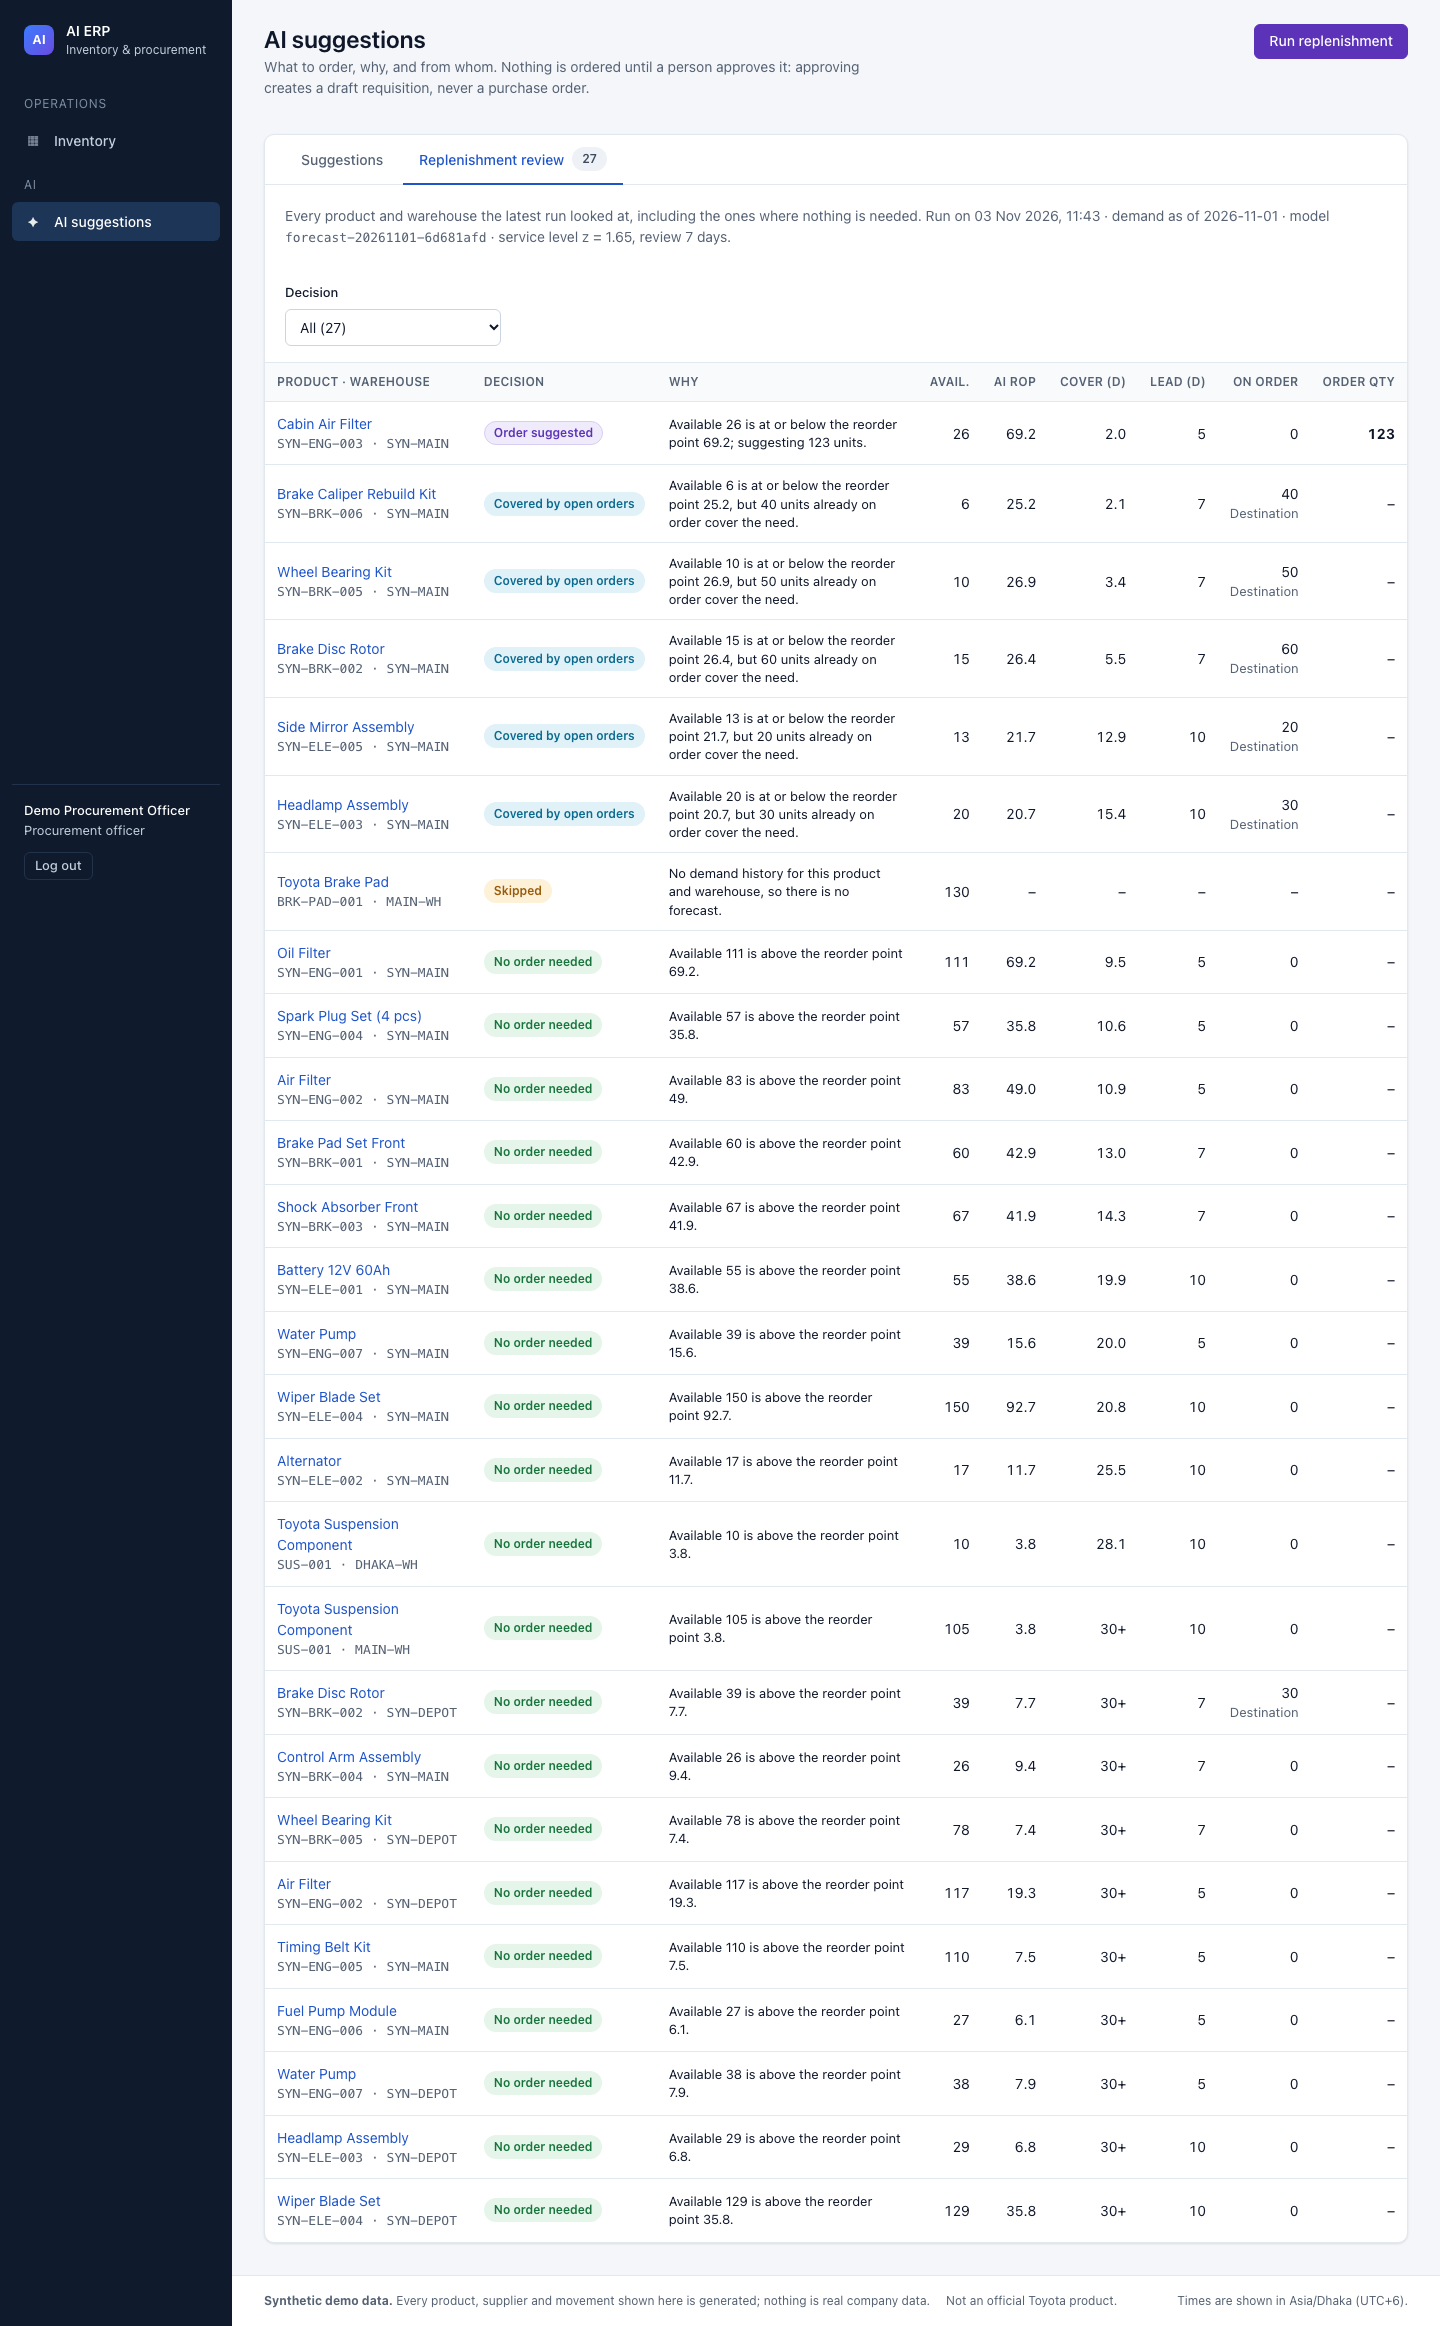
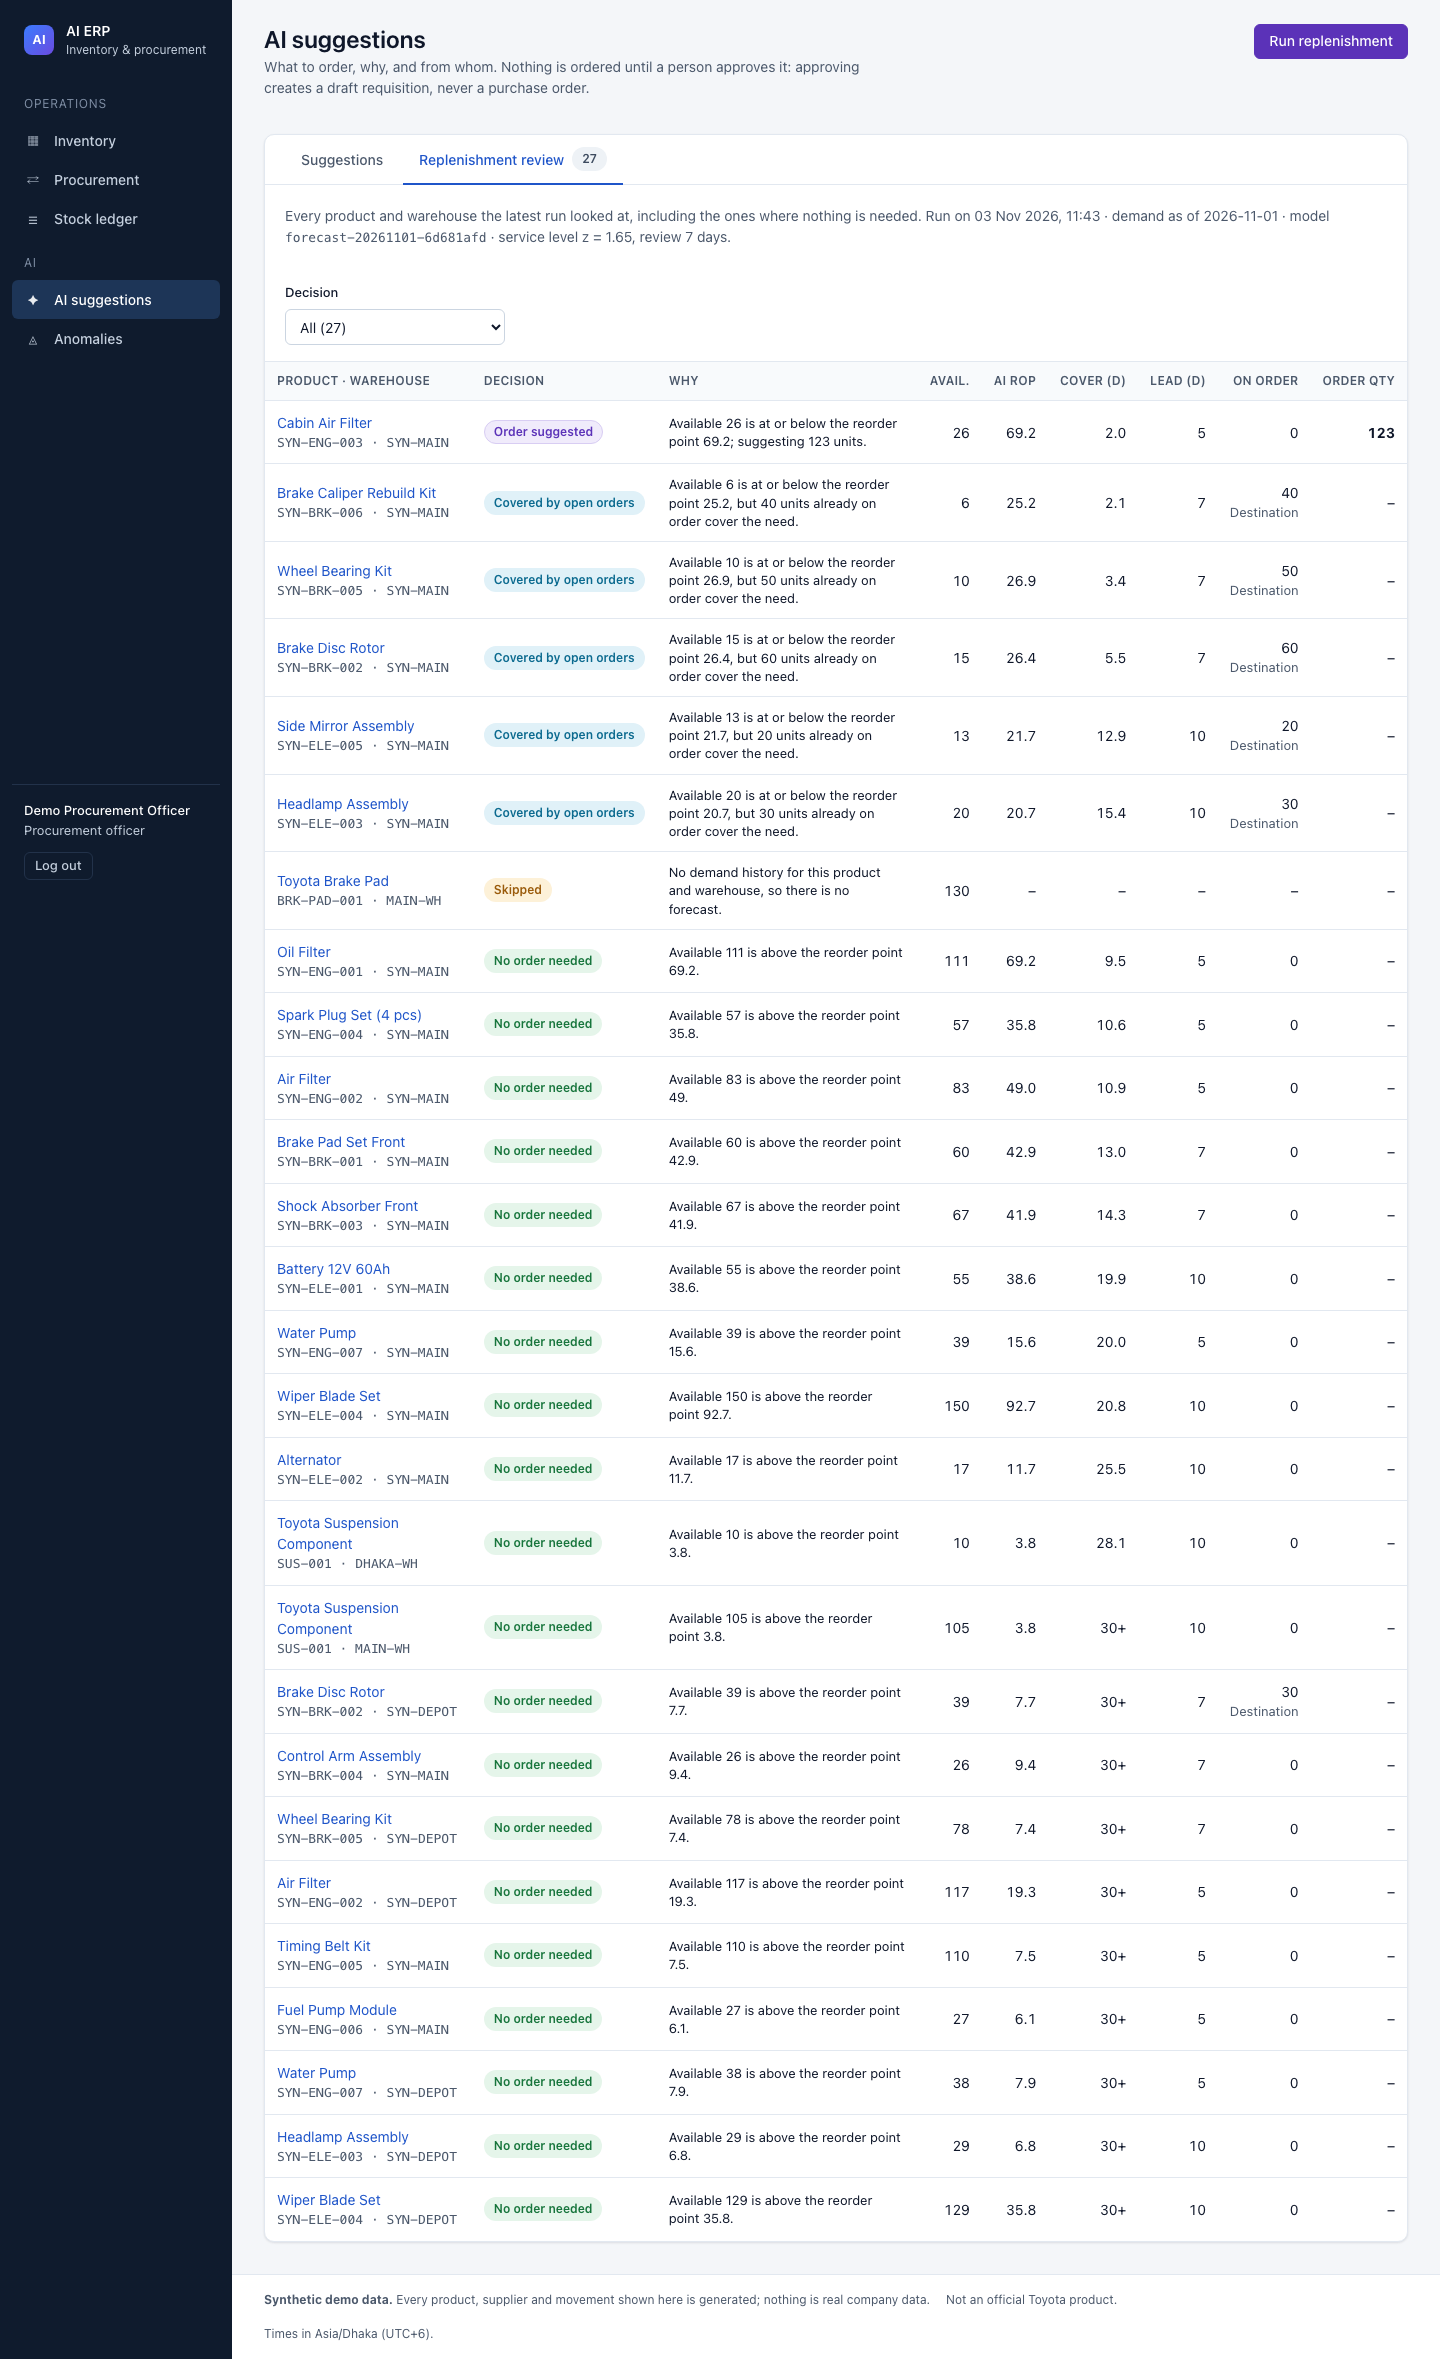
P6: real-stack smoke and accessibility checks, final screenshots, docs (UI-001..UI-009)
Playwright smoke test per role, automated axe check of every page, phone-width overflow check;
docs/screenshots/*.png regenerated by npm run screenshots.

diff --git a/client/e2e/smoke.spec.ts b/client/e2e/smoke.spec.ts
@@ -1,0 +1,87 @@
+import { expect, test } from '@playwright/test'
+import { ACCOUNTS, loginAs, settle, type DemoRole } from './helpers'
+
+// Read-only smoke test of the real stack: logins, role-based menus and actions, the assistant, logout.
+// (It asks the assistant one question, which writes one audit row; nothing else is written.)
+const nav = (page: import('@playwright/test').Page) => page.getByRole('navigation', { name: 'Main' })
+
+const MENU: Record<DemoRole, { has: string[]; hasNot: string[] }> = {
+  ADMIN: { has: ['Inventory', 'Procurement', 'Stock ledger', 'AI suggestions', 'Anomalies', 'AI models', 'AI audit log'], hasNot: [] },
+  PROCUREMENT_OFFICER: { has: ['Inventory', 'Procurement', 'AI suggestions', 'Anomalies'], hasNot: ['AI models', 'AI audit log'] },
+  WAREHOUSE_MANAGER: { has: ['Inventory', 'Procurement', 'Stock ledger', 'Anomalies'], hasNot: ['AI models', 'AI audit log'] },
+  VIEWER: { has: ['Inventory', 'Procurement', 'Stock ledger', 'AI suggestions', 'Anomalies'], hasNot: ['AI models', 'AI audit log'] },
+}
+
+for (const role of Object.keys(ACCOUNTS) as DemoRole[]) {
+  test(`${role}: logs in, sees the right menu and the dashboard`, async ({ page }) => {
+    await loginAs(page, role)
+    await settle(page)
+
+    for (const item of MENU[role].has) await expect(nav(page).getByRole('link', { name: item })).toBeVisible()
+    for (const item of MENU[role].hasNot) await expect(nav(page).getByRole('link', { name: item })).toHaveCount(0)
+
+    await expect(page.getByLabel('Key figures')).toContainText('Low stock')
+    await expect(page.getByLabel('Key figures')).not.toContainText('…')
+    await expect(page.getByText('Not an official Toyota product.')).toBeVisible()
+  })
+}
+
+test('a viewer can read suggestions but not run or decide on them', async ({ page }) => {
+  await loginAs(page, 'VIEWER')
+  await nav(page).getByRole('link', { name: 'AI suggestions' }).click()
+  await page.getByRole('heading', { name: 'AI suggestions' }).waitFor()
+  await settle(page)
+
+  await expect(page.getByRole('button', { name: 'Run replenishment' })).toHaveCount(0)
+  await page.getByRole('button', { name: 'Review' }).first().click()
+  await expect(page.getByText('Only a procurement officer or administrator can approve or reject')).toBeVisible()
+  await expect(page.getByRole('button', { name: 'Approve…' })).toHaveCount(0)
+})
+
+test('the replenishment review lists every series the latest run looked at', async ({ page }) => {
+  await loginAs(page, 'VIEWER')
+  await page.goto('/suggestions?tab=review')
+  await page.getByText(/Every product and warehouse the latest run looked at/).waitFor()
+  await settle(page)
+
+  expect(await page.getByRole('row').count()).toBeGreaterThan(20)
+  await expect(page.getByRole('cell', { name: 'No order needed' }).first()).toBeVisible()
+})
+
+test('the two anomaly lists are separate tabs', async ({ page }) => {
+  await loginAs(page, 'VIEWER')
+  await page.goto('/anomalies')
+  await expect(page.getByRole('tab', { name: /Confirmed rule hits/ })).toHaveAttribute('aria-selected', 'true')
+  await page.getByRole('tab', { name: /Weekly review queue/ }).click()
+  await expect(page.getByRole('columnheader', { name: 'Rank' })).toBeVisible()
+})
+
+test('a wrong password is refused and a deep link to an admin page is blocked for a viewer', async ({ page }) => {
+  await page.goto('/login')
+  await page.getByLabel('Email').fill(ACCOUNTS.VIEWER.email)
+  await page.getByLabel('Password').fill('definitely-the-wrong-password')
+  await page.getByRole('button', { name: 'Log in' }).click()
+  await expect(page.getByRole('alert')).toContainText('Invalid email or password')
+
+  await loginAs(page, 'VIEWER')
+  await page.goto('/admin/audit')
+  await expect(page.getByText('You do not have access to this')).toBeVisible()
+})
+
+test('the assistant answers from the system data', async ({ page }) => {
+  await loginAs(page, 'VIEWER')
+  await page.getByRole('button', { name: /Ask the assistant/ }).click()
+  await page.getByRole('button', { name: 'Which products will run out soonest?' }).click()
+
+  await expect(page.getByText('AI-written')).toBeVisible({ timeout: 60_000 })
+  await expect(page.getByText(/looked at:/)).toBeVisible()
+})
+
+test('logging out returns to the login page and protected pages need a new login', async ({ page }) => {
+  await loginAs(page, 'ADMIN')
+  await page.getByRole('button', { name: 'Log out' }).click()
+  await expect(page.getByRole('heading', { name: 'Log in' })).toBeVisible()
+
+  await page.goto('/ledger')
+  await expect(page.getByRole('heading', { name: 'Log in' })).toBeVisible()
+})

diff --git a/client/src/styles/components.css b/client/src/styles/components.css
@@ -29,7 +29,7 @@
 @media (min-width: 1700px) { .main--assistant-open .main__inner { padding-right: calc(var(--assistant-width) + var(--space-8)); } }
 
 .topbar { display: flex; align-items: center; gap: var(--space-3); padding: var(--space-3) var(--space-8); background: var(--color-surface); border-bottom: 1px solid var(--color-border); }
-.footer { padding: var(--space-4) 200px var(--space-4) var(--space-8); /* room for the floating assistant button */ color: var(--color-text-muted); font-size: var(--text-xs); border-top: 1px solid var(--color-border); background: var(--color-surface); display: flex; gap: var(--space-4); flex-wrap: wrap; }
+.footer { padding: var(--space-4) 180px var(--space-4) var(--space-8); /* room for the floating assistant button */ color: var(--color-text-muted); font-size: var(--text-xs); border-top: 1px solid var(--color-border); background: var(--color-surface); display: flex; gap: var(--space-4); flex-wrap: wrap; }
 
 .page-header { display: flex; align-items: flex-start; gap: var(--space-4); margin-bottom: var(--space-5); flex-wrap: wrap; }
 .page-header h1 { margin-bottom: 2px; }
@@ -124,6 +124,7 @@ a.kpi:hover { text-decoration: none; border-color: var(--color-border-strong); }
 .table td.wrap { white-space: normal; min-width: 220px; }
 .table__sub { color: var(--color-text-muted); font-size: var(--text-sm); white-space: nowrap; }
 .table td:first-child { min-width: 170px; }
+.table .mono, .table td.faint { white-space: nowrap; }
 .table tr.is-flagged td:first-child { box-shadow: inset 3px 0 0 var(--color-warning); }
 .table tr.is-critical td:first-child { box-shadow: inset 3px 0 0 var(--color-danger); }
 

diff --git a/client/e2e/shots.spec.ts b/client/e2e/shots.spec.ts
@@ -6,12 +6,18 @@ test.describe.configure({ mode: 'serial' })
 
 async function shot(page: Page, name: string) {
   // the floating button would sit in the middle of a stitched full-page image
-  await page.addStyleTag({ content: name.startsWith('10-') ? '' : '.assistant-fab { display: none !important }' })
+  if (!name.startsWith('10-')) await page.addStyleTag({ content: '.assistant-fab { display: none !important }' })
   await settle(page)
   await page.waitForTimeout(250)
   await page.mouse.move(2, 2)
   await page.screenshot({ path: `${SHOTS_DIR}/${name}.png`, fullPage: true })
 }
+
+test('login page', async ({ page }) => {
+  await page.goto('/login')
+  await page.getByRole('heading', { name: 'Log in' }).waitFor()
+  await shot(page, '00-login')
+})
 
 test('procurement officer: dashboard, forecast, suggestions', async ({ page }) => {
   await loginAs(page, 'PROCUREMENT_OFFICER')

diff --git a/client/src/components/Layout.tsx b/client/src/components/Layout.tsx
@@ -16,7 +16,7 @@ export function Footer() {
       </span>
       <span>Not an official Toyota product.</span>
       <span className="spacer" />
-      <span>Times are shown in Asia/Dhaka (UTC+6).</span>
+      <span>Times in Asia/Dhaka (UTC+6).</span>
     </footer>
   )
 }

diff --git a/CLAUDE.md b/CLAUDE.md
@@ -52,6 +52,12 @@ npm run reconcile                # inventory = last ledger balance + chain/docum
 # client
 cd client && npm install && npm run dev   # port 5173
 
+# client tests and checks
+cd client && npm test                      # vitest + testing-library + msw (no backend needed)
+cd client && npm run lint && npm run build
+cd client && npm run e2e                   # Playwright smoke + accessibility against the REAL stack (see client/e2e/README.md)
+cd client && npm run screenshots           # regenerates docs/screenshots/*.png
+
 # ai-service (P2/P3)  -- create the venv with an EXPLICIT python >= 3.11 (python.org or pyenv build, see below)
 cd ai-service && /path/to/python3.13 -m venv .venv && .venv/bin/pip install -r requirements-dev.txt
 .venv/bin/uvicorn app.main:app --reload --port 8000    # needs ai-service/.env (AI_DB_URL, AI_SERVICE_SECRET)
@@ -126,7 +132,12 @@ Keep `npm test` passing.
   (AI-007, parallel double-approve test), anomaly flags with separate rule-hit and review-queue lists, model runs and retrain,
   LLM explanations (Groq primary, Gemini fallback, Ollama local; cached; `null` on any failure; 20/min and 800/day caps),
   and a read-only assistant (fixed tool registry incl. days of cover, tests prove no write tool). Background explanations use at most half of the per-minute LLM budget.
-- Next: P6 (React UI). Update this section when a phase gate passes.
+- P6 (React UI, UI-001..UI-009) is built on branch `phase-6-ui` and waits for the owner's confirmation: login, inventory
+  dashboard (KPIs, static reorder level vs AI reorder point), forecast chart, AI suggestions with the replenishment review
+  tab, anomalies (rule hits and review queue as separate tabs), procurement workflow, stock ledger, assistant panel, AI models
+  and AI audit log (ADMIN). Vitest + msw tests, Playwright smoke and axe accessibility checks against the real stack,
+  screenshots in `docs/screenshots/`.
+- Next: P7 (release prep: demo script, deployment, docs). Update this section when a phase gate passes.
 
 ### Pending verification
 

diff --git a/client/e2e/README.md b/client/e2e/README.md
@@ -1,0 +1,27 @@
+# End-to-end checks
+
+These run against the **real stack**, not mocks. Start it first:
+
+```
+# terminal 1: database is running; ERP API
+cd server && npm run dev                      # http://localhost:5001
+# terminal 2: AI service
+cd ai-service && .venv/bin/uvicorn app.main:app --port 8000
+# terminal 3: this client (proxies /api to :5001)
+cd client && npm run dev                      # http://localhost:5173
+```
+
+The demo users must exist (`cd server && npm run seed:users`) and the demo data be loaded
+(`npm run seed:synthetic -- --apply`), with models trained and one replenishment run done
+(log in as admin: AI models → Retrain; AI suggestions → Run replenishment).
+
+The demo passwords are read from `server/.env` (only `DEMO_*_PASSWORD`), or from the environment
+(`E2E_ENV_FILE` points at another file). Nothing is printed.
+
+```
+npm run e2e          # smoke test + automated accessibility check (read-only)
+npm run screenshots  # regenerates docs/screenshots/*.png
+```
+
+The API limits login attempts to 10 per 15 minutes per user and address. The specs log in once per role
+and page set; if you rerun them many times in a row, restart the API to clear the limit.
